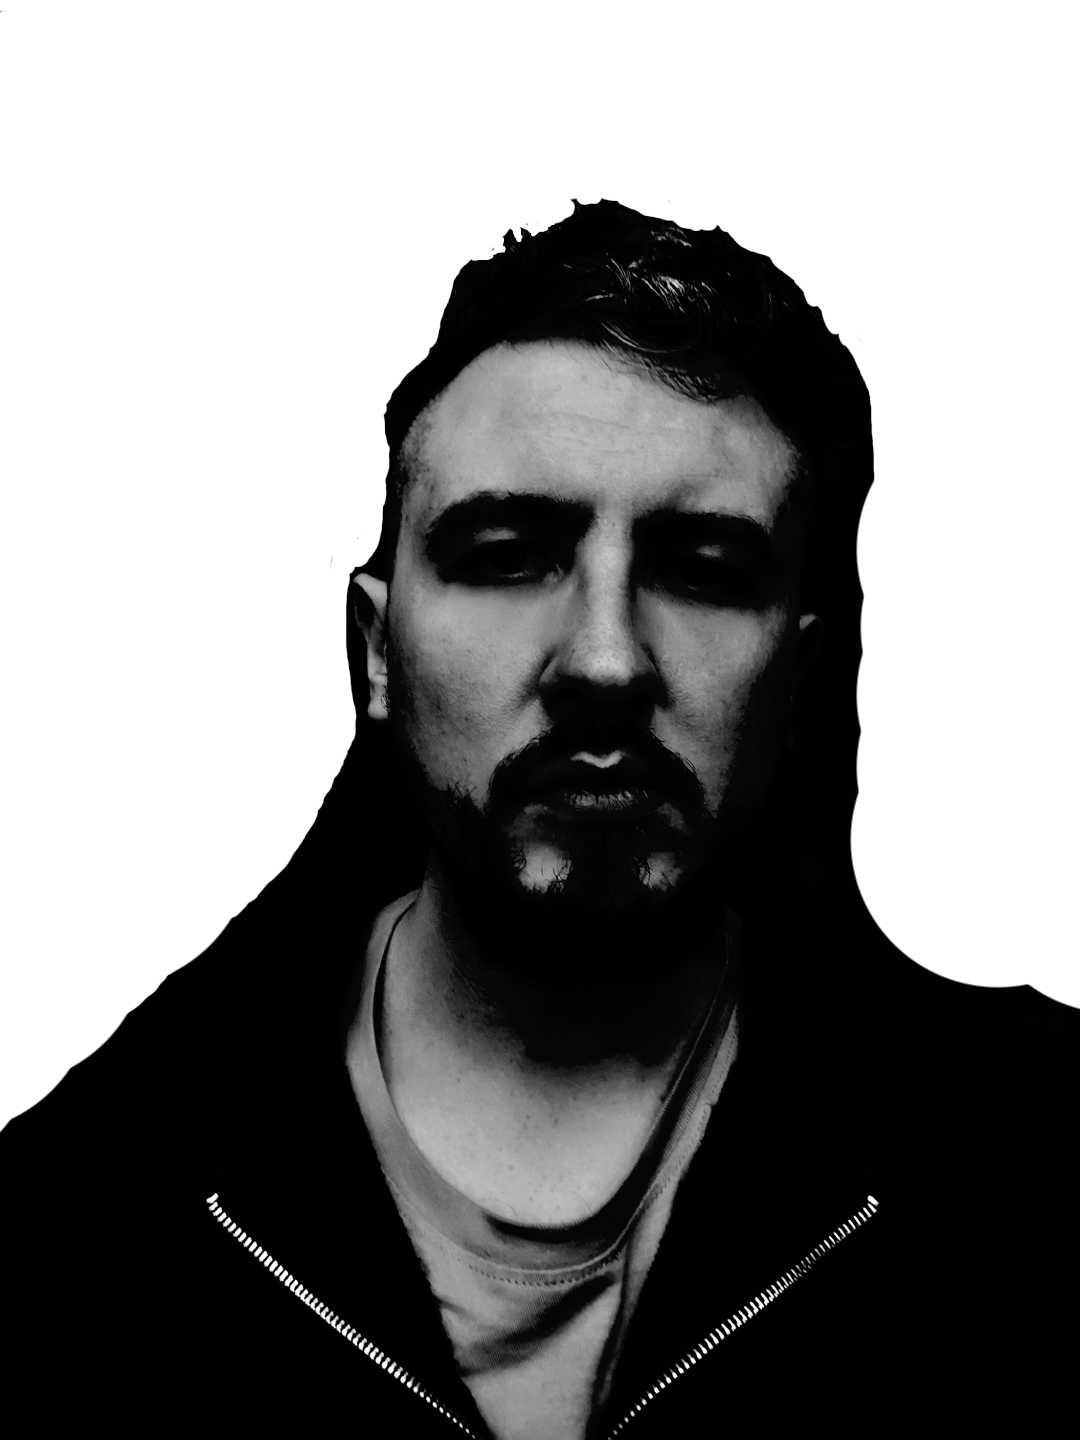
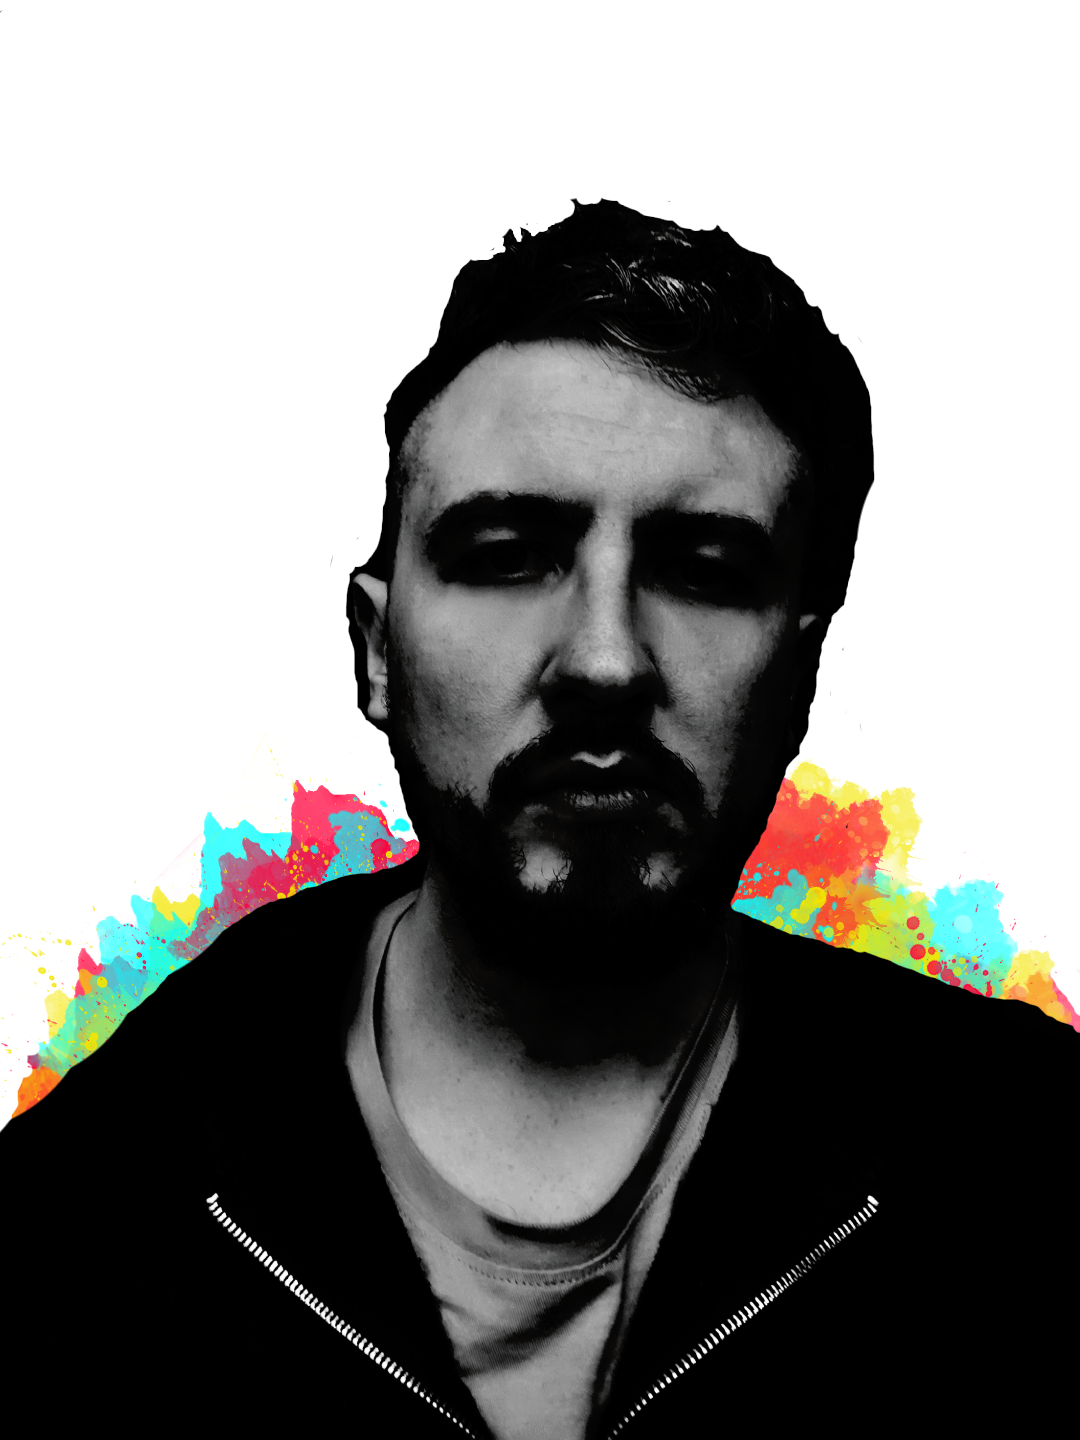
Misc: added temporary background images and classes

Changed region(s): [[0.6722, 0.375, 1.0, 0.7188], [0.0, 0.4375, 0.3972, 0.7812]]

diff --git a/frontend-react/src/pages/Hero/Hero.js b/frontend-react/src/pages/Hero/Hero.js
@@ -9,8 +9,9 @@ const scaleVariants = {
     opacity: [0, 1],
     transition: {
       delay: 2,
-      duration: 2,
+      duration: 3,
       ease: 'easeInOut',
+      delayChildren: 0.5,
     },
   },
 };
@@ -41,7 +42,7 @@ const Hero = () => {
 
       <motion.div
         whileInView={{ opacity: [0, 1] }}
-        transition={{ duration: 3 }}
+        transition={{ duration: 4, ease: 'easeIn' }}
         className='app-hero-img'
       >
         <img src={images.hero} alt='profile_bg' />

diff --git a/frontend-react/src/pages/About/About.js b/frontend-react/src/pages/About/About.js
@@ -7,7 +7,7 @@ import { images } from '../../exports';
 
 const About = () => {
   return (
-    <div className='app-container'>
+    <div className='app-container about-section'>
       <RoughNotation type='underline' show={true}>
         <h2 className='head-text'>
           About <span className='cyan'>Me</span> <br />

diff --git a/frontend-react/src/App.js b/frontend-react/src/App.js
@@ -10,8 +10,8 @@ const App = () => (
     <Hero />
     <About />
     <Projects />
-    {/* <Skills />
-    <Footer /> */}
+    <Skills />
+    {/* <Footer /> */}
   </div>
 );
 

diff --git a/frontend-react/src/pages/About/About.scss b/frontend-react/src/pages/About/About.scss
@@ -2,3 +2,7 @@
   text-align: center;
   width: 50%;
 }
+
+.about-section {
+  background: url(../../assets/test.png) no-repeat center center;
+}
